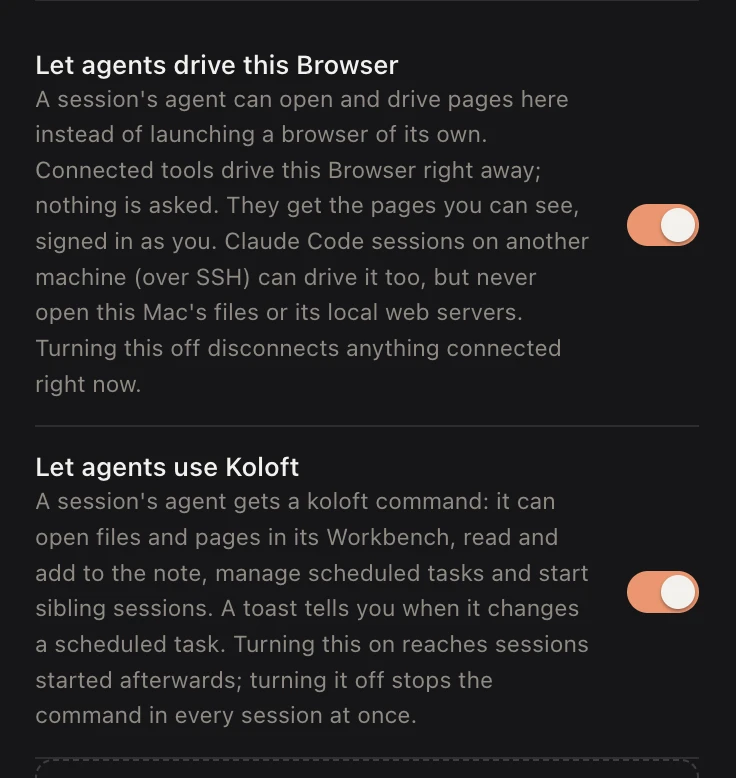
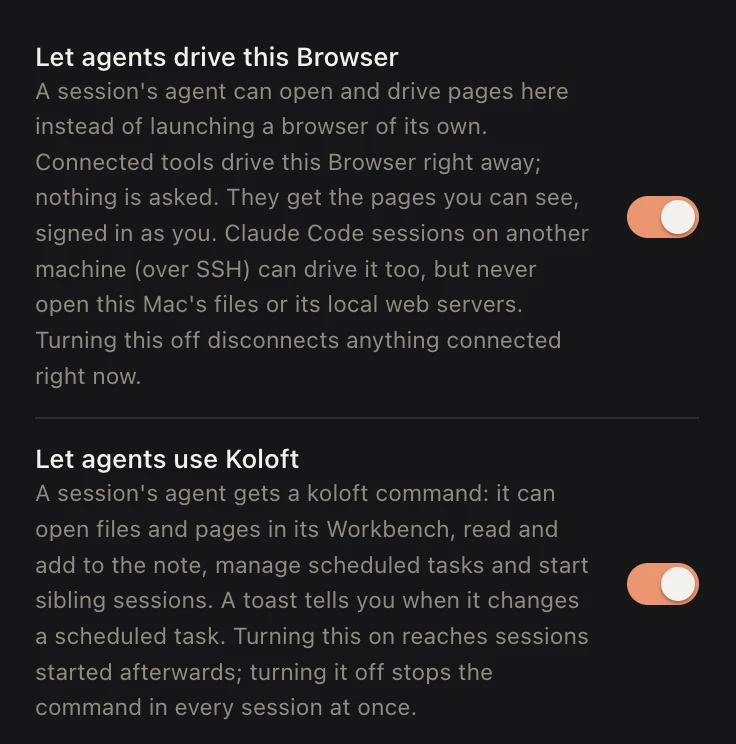
docs(site): trim the phone Extensions shot to its two rows

diff --git a/site/agents/index.html b/site/agents/index.html
@@ -260,14 +260,14 @@
           <a href="../accounts/#what-it-can-do">what your butler can do</a>.
         </p>
 
-        <figure class="shot" style="--ar: 1322 / 691; --ar-phone: 736 / 778">
+        <figure class="shot" style="--ar: 1322 / 691; --ar-phone: 736 / 744">
           <div class="frame">
             <picture>
               <source
                 media="(max-width: 760px)"
                 srcset="../img/i-settings-extensions-phone3.webp"
                 width="736"
-                height="778"
+                height="744"
               />
               <img
                 src="../img/i-settings-extensions3.webp"
